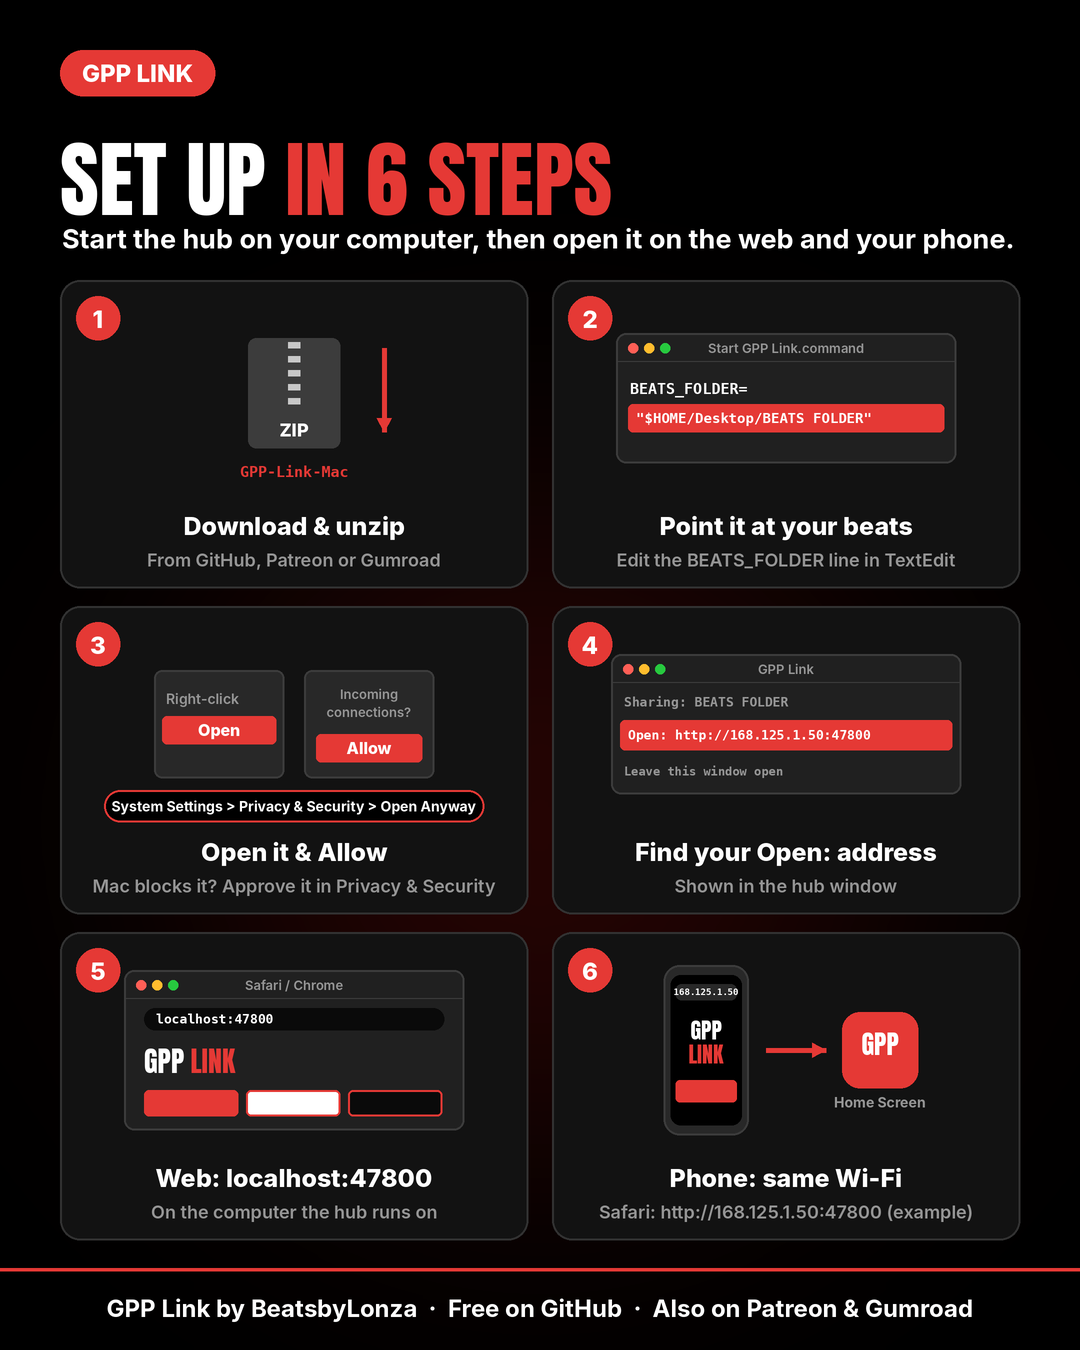
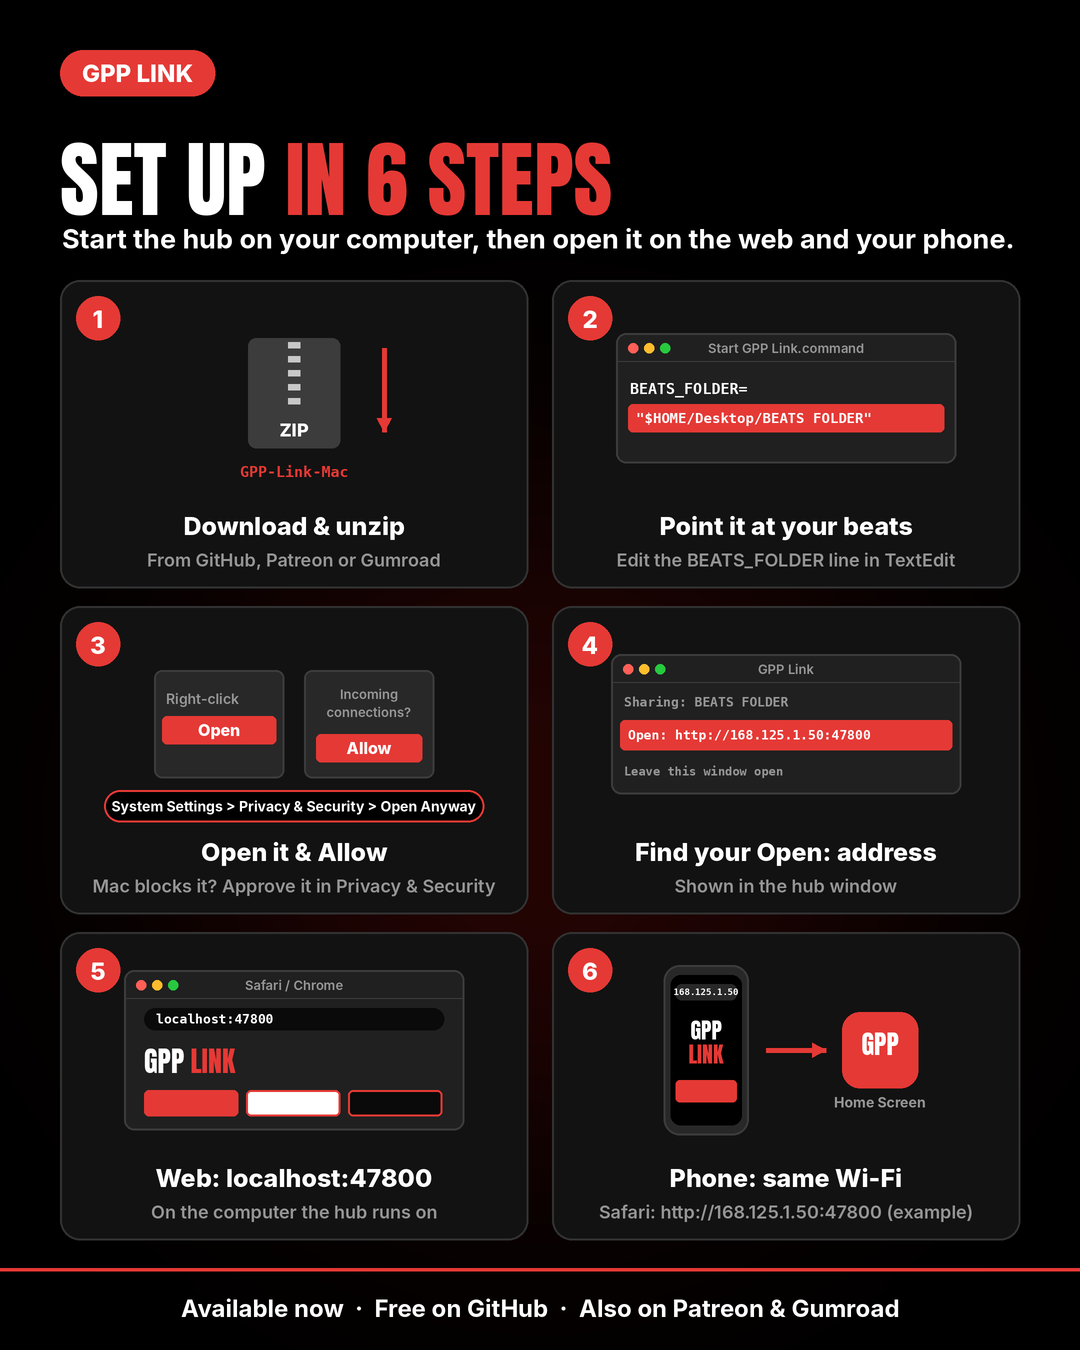
Docs: say Get Producers Paid and GPP Link are live
THANK-YOU.txt and the plugin README no longer say the app is coming soon
or that beats wait for the server; the picture guides say available now.

Claude-Session: https://claude.ai/code/session_01WmNThe2YgufVxsxafP3kb5

Changed region(s): [[0.0917, 0.9644, 0.9167, 0.9956]]

diff --git a/plugin/README.md b/plugin/README.md
@@ -63,7 +63,7 @@ Folders on the MPC's internal drive (**MPC User**), even when the plugin is inst
 
 Nothing on either side is ever overwritten; a second `kick.wav` becomes `kick (2).wav`.
 
-**Get Producers Paid:** for now, beats and stems wait in `Beats/Get Producers Paid/` on the Mac. Once the Get Producers Paid server is live, the hub will upload them to your producer account as drafts, where you add the title, price and license and publish.
+**Get Producers Paid (live now):** beats and stems you send land in `Beats/Get Producers Paid/` on the Mac, and the hub uploads them to your producer account as drafts. Connect your store once on the hub page (`http://localhost:47800`, pairing code from the app), then add the title, price and license in the app and publish.
 
 ## If it says "No Mac found"
 
